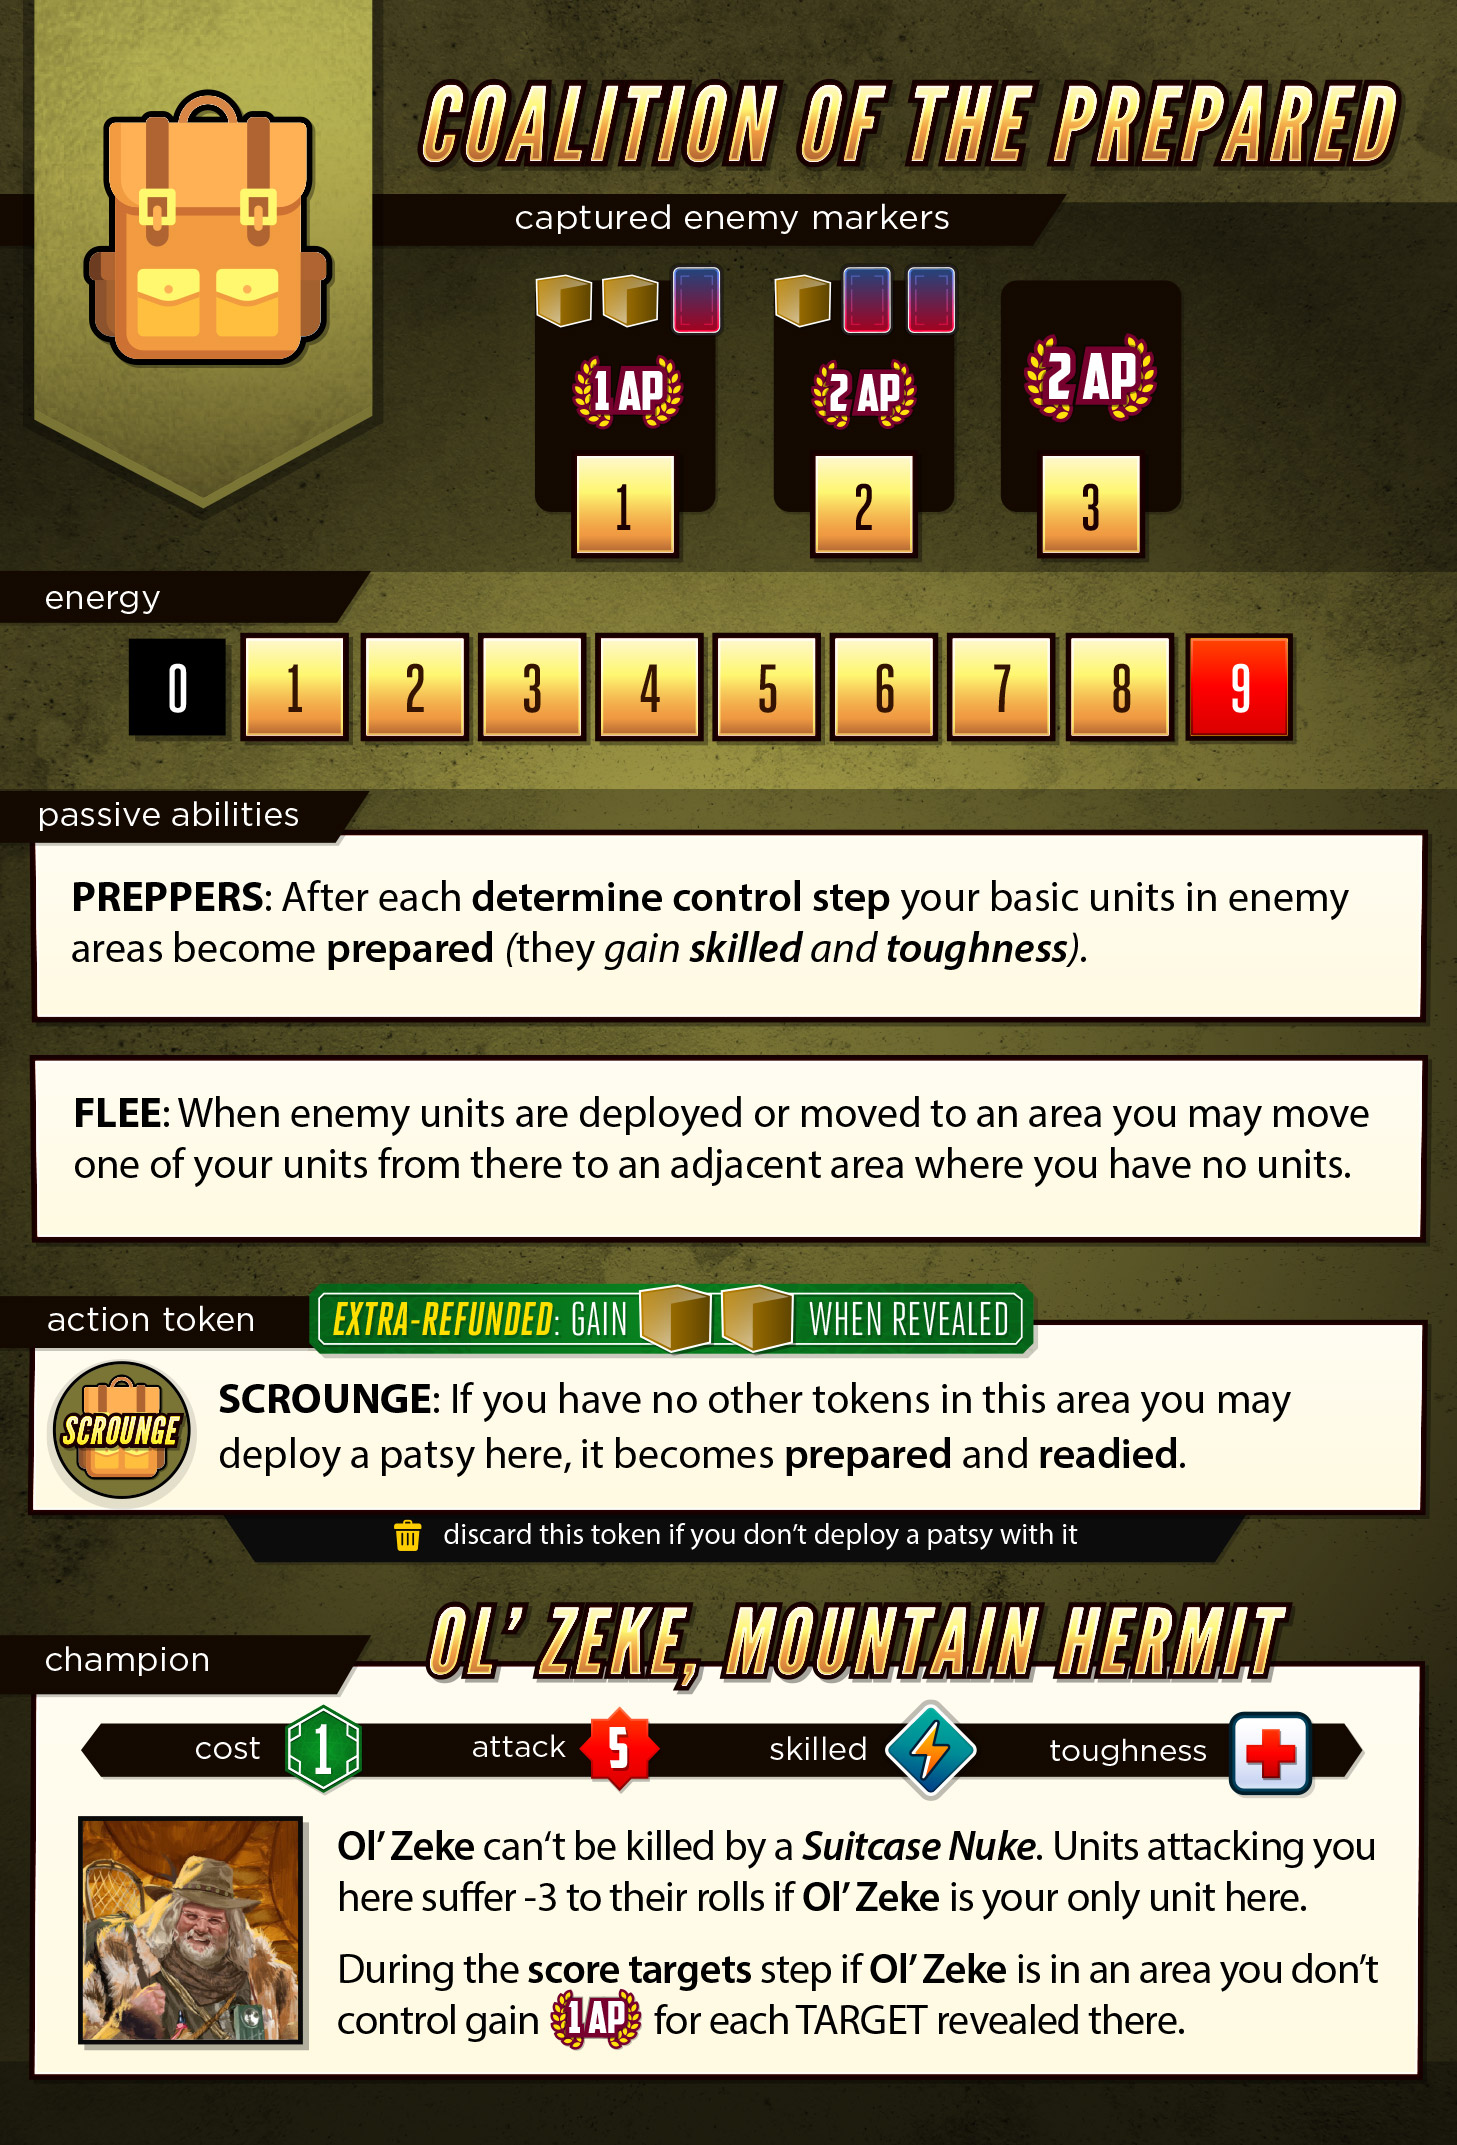
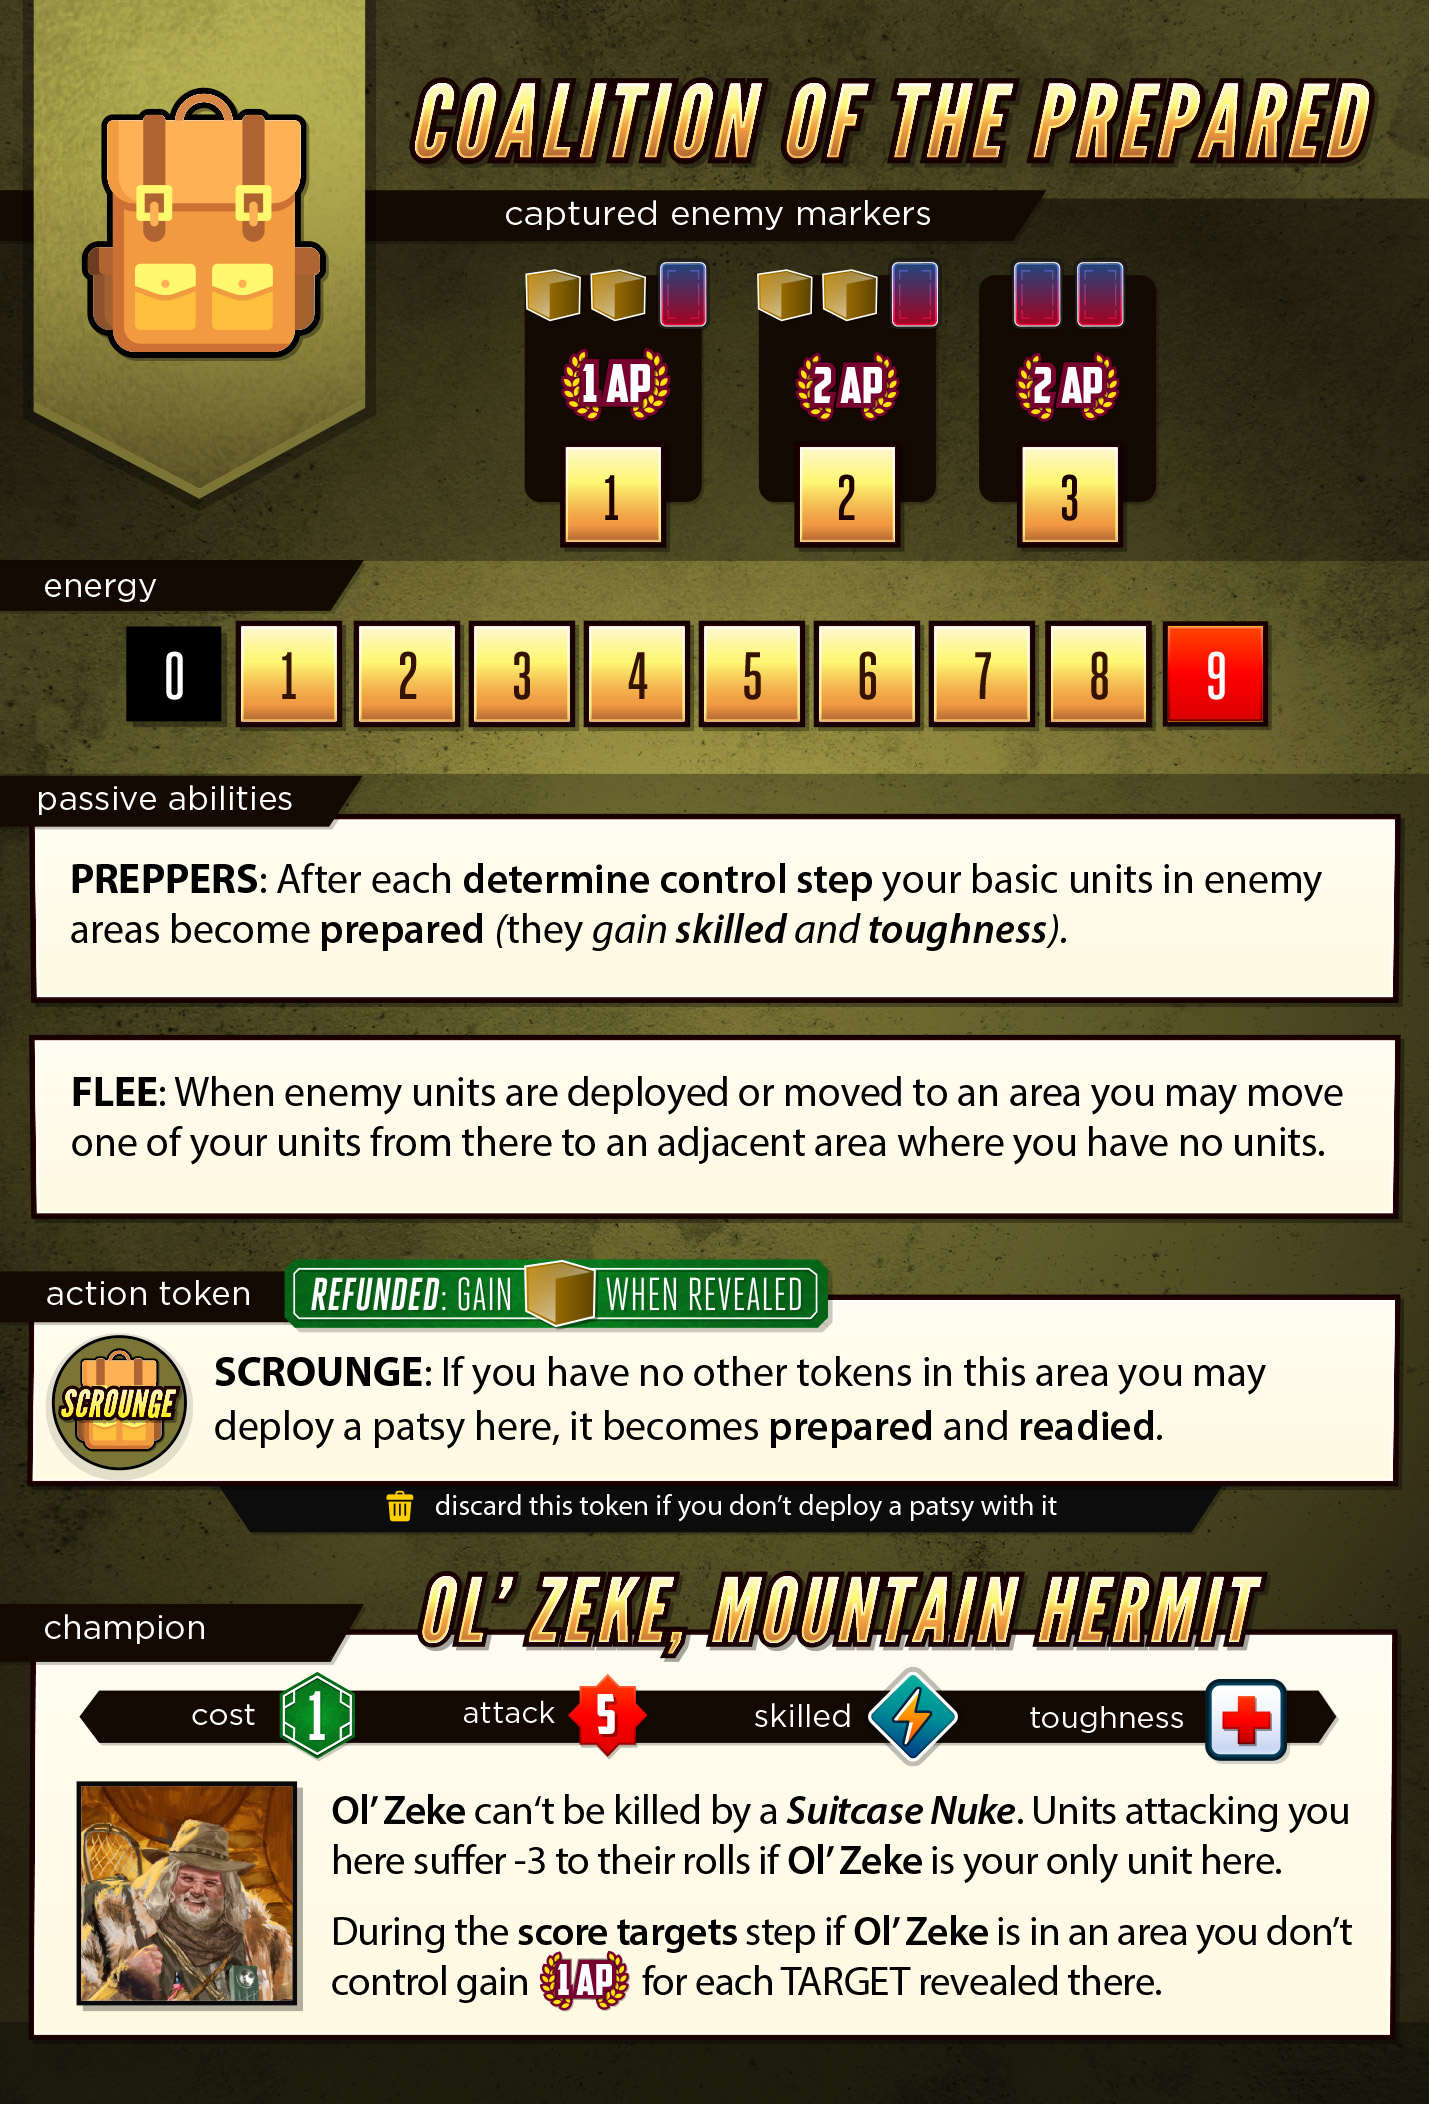
SURVIVALISTS: reduce scrounge refund, add capture rewards

diff --git a/server/classes/factions/Survivalists.js b/server/classes/factions/Survivalists.js
@@ -24,8 +24,8 @@ class Survivalists extends Faction {
 
         this.capturedRewards = [
             { ap : 1, cards : 1, resources: 2 },
-            { ap : 2, cards : 2, resources: 1 },
-            { ap : 2 },
+            { ap : 2, cards : 1, resources: 2 },
+            { ap : 2, cards : 2 },
         ];
 
         this.data.captured.max = this.capturedRewards.length;
@@ -69,7 +69,7 @@ class Survivalists extends Faction {
                 influence: 1,
                 type: 'scrounge',
                 cost: 0,
-                resource: 2,
+                resource: 1,
                 description: "Extra Refunded (gain xRxxRx when revealed), if you have no other tokens here you may deploy a patsy to this area, it becomes prepared",
                 req : "Discard this token if you do not deploy a patsy when activating it",
             }
